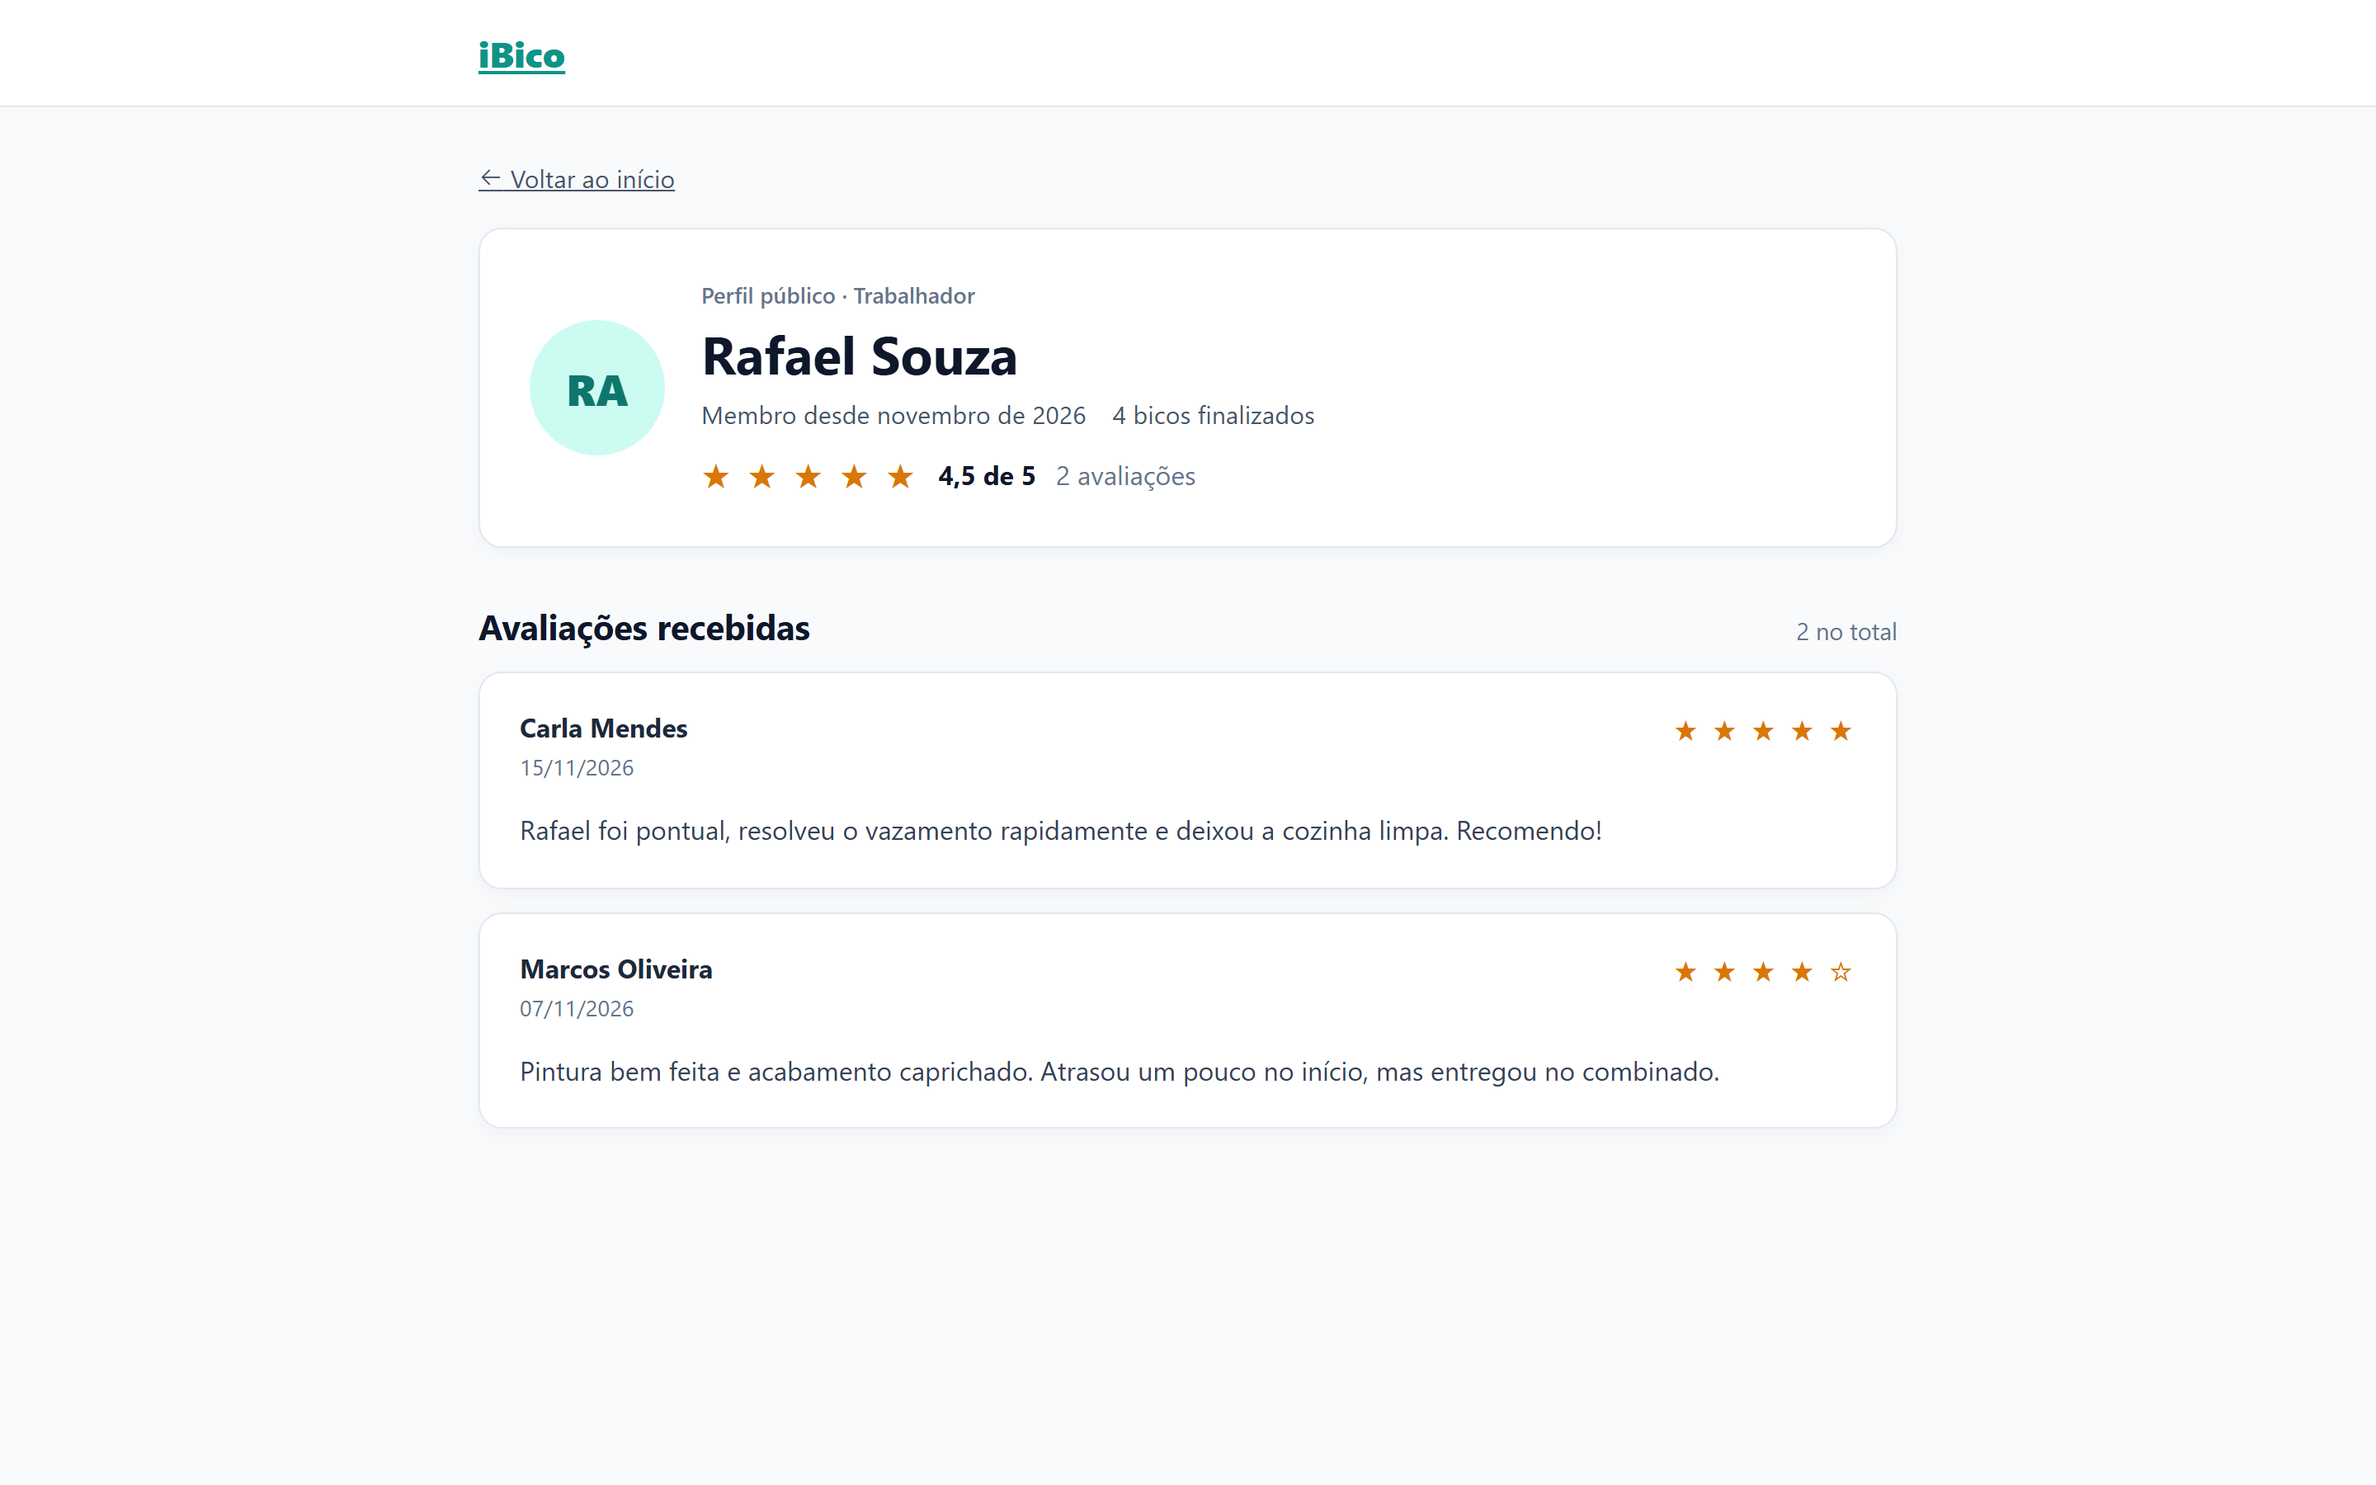
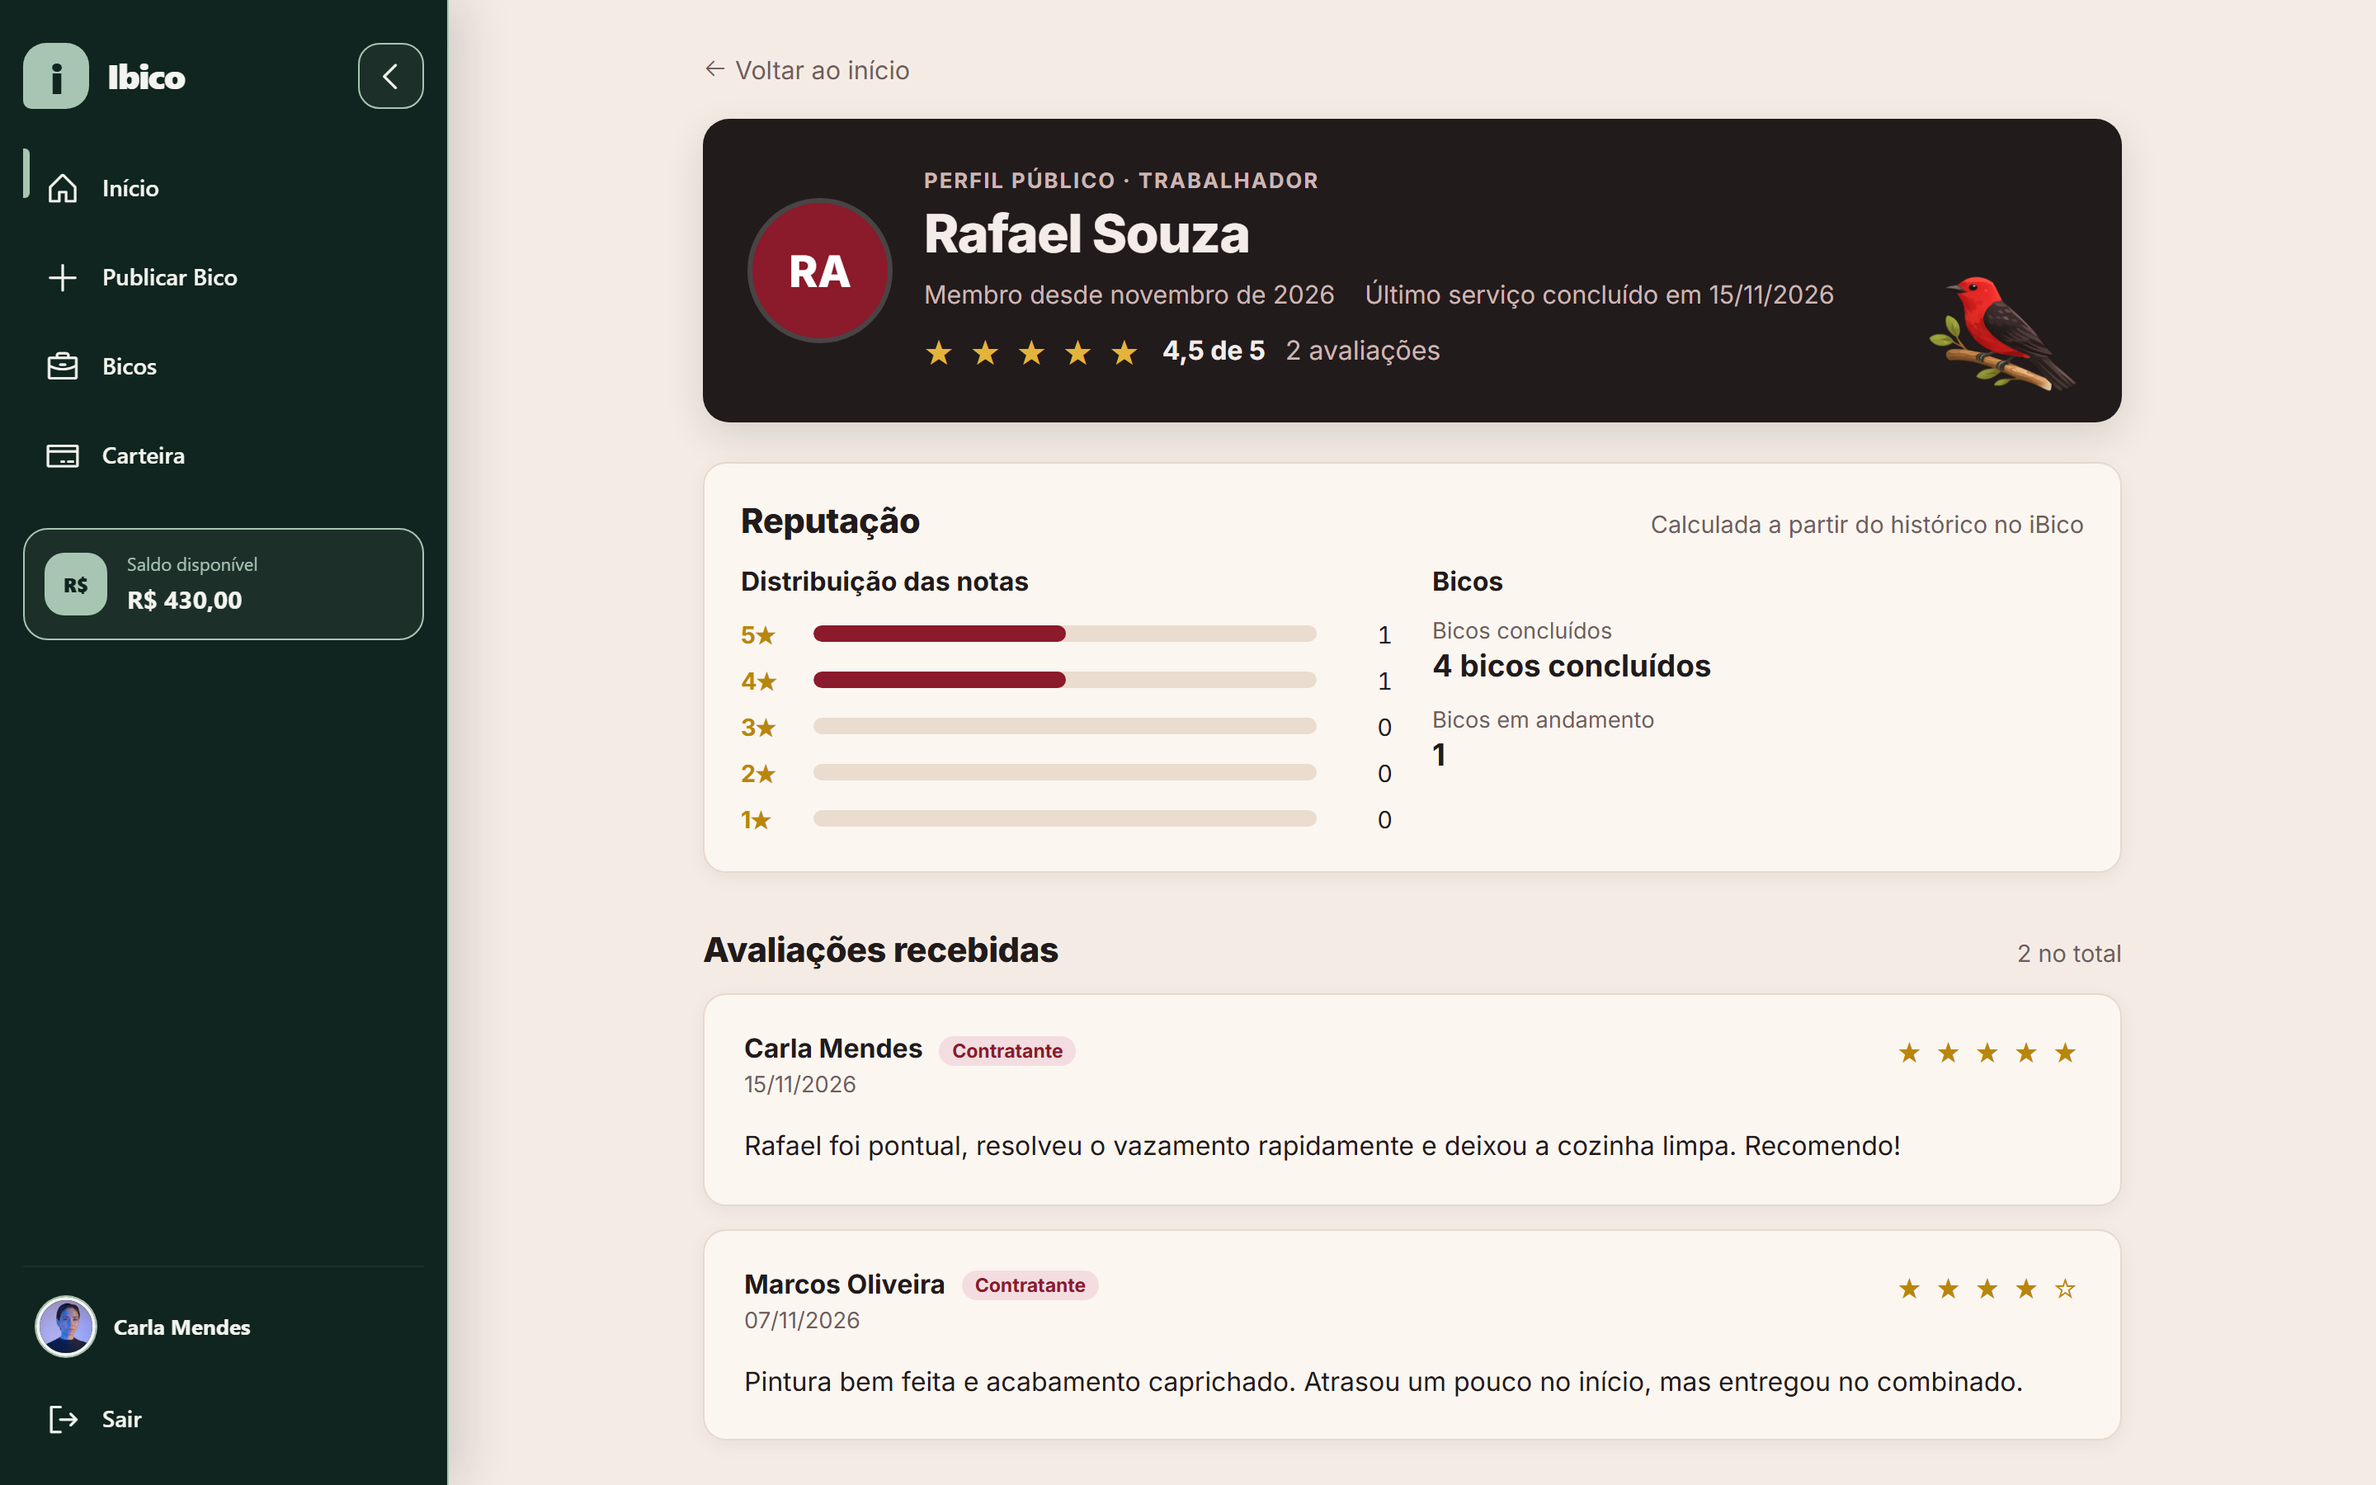
docs: CT23–CT24, prints com perfil de reputação e remoção do card fictício

diff --git a/scripts/prints-tcc.js b/scripts/prints-tcc.js
@@ -471,6 +471,11 @@ async function main() {
       }
     });
 
+    // Versão com reputação: o trabalhador (Diego) vê o bloco "Sobre o contratante" antes de se candidatar
+    // e o Rafael confere os números reais em "Meu Perfil".
+    await capturar({ arquivo: '20-sobre-o-contratante.png', usuario: 'diego', url: `/bicos/${ids.bicos.calcada}`, fullPage: true, esperarSeletor: '#sobre-contratante' });
+    await capturar({ arquivo: '21-perfil-privado-trabalhador.png', usuario: 'rafael', url: '/perfil', fullPage: true });
+
     console.log('\n> Resumo');
     console.log(JSON.stringify({ ids, resultados: resultados.map(({ arquivo, ok, erro, alturaConteudo }) => ({ arquivo, ok, erro, alturaConteudo })) }, null, 2));
   } finally {

diff --git a/tests/e2e/roteiro/perfil-reputacao.spec.js b/tests/e2e/roteiro/perfil-reputacao.spec.js
@@ -341,7 +341,7 @@ test.describe('Textos fictícios removidos', () => {
 
     const c = await criarConta(browser, 'contratante', 'txt_c');
     const publicar = await (await c.ctx.request.get(`${BASE}/bicos/novo`)).text();
-    expect(publicar).not.toMatch(/Pagamento garantido|Segurança Ibico|Verificado/);
+    expect(publicar).not.toMatch(/Pagamento garantido|Segurança Ibico|Verificado|Alcance Local|propostas por hora|propostas\/hora/);
     expect(publicar).toContain('O valor fica reservado na sua carteira simulada quando você aceita um candidato.');
     await c.ctx.close();
   });

diff --git a/public/css/publicarBico.css b/public/css/publicarBico.css
@@ -416,7 +416,7 @@ textarea {
 /* Rodapé cards */
 .info-grid {
   display: grid;
-  grid-template-columns: repeat(3, minmax(0, 1fr));
+  grid-template-columns: repeat(2, minmax(0, 1fr));
   gap: 20px;
   margin-top: 40px;
 }

diff --git a/Docs/Teste/casos-de-teste.md b/Docs/Teste/casos-de-teste.md
@@ -3,9 +3,9 @@
 Todos os valores financeiros são **simulados** (não existe pagamento real).
 
 **Execução de referência:** 17/11/2026, Firefox (Playwright) + `node --test`, banco local `db_bico` (MariaDB 10.11).
-- Testes unitários (`npm run test:unit`): 62 de 62 aprovados (15 de idade/cadastro/perfil + 17 do cancelamento de bico + 25 da avaliação + 5 do selo de avaliação), em `tests/unit/`.
-- Testes E2E (`npm test`): 77 de 77 aprovados, em `tests/e2e/` (inclui 5 da avaliação bidirecional, 7 do fluxo por cliques e 9 dos mascotes).
-- A suíte completa (`npm run test:unit` e `npm test`) foi executada em 17/11/2026 às 14:00, 14:01, 14:11, 15:37, 15:40, 16:00, 16:02, 17:56, 17:58, 18:07 e 18:20. A execução de referência é a de **18:20** (unitários 62/62 e E2E 77/77, esta última contra a porta 3001 porque a 3000 estava ocupada por outro servidor); a de 18:07 passou com 76/76 (antes do teste do selo "Prazo encerrado"). Em duas execuções intermediárias houve falhas já corrigidas: uma por ajuste pendente nos testes depois da remoção de e-mail e idade da lista de candidatos (mais dois travamentos gráficos do Firefox), outra por testes ainda procurando o balão antigo dos avisos de erro. O Playwright usa 2 workers.
+- Testes unitários (`npm run test:unit`): 78 de 78 aprovados (15 de idade/cadastro/perfil + 17 do cancelamento de bico + 25 da avaliação + 5 do selo de avaliação + 13 da reputação + 3 do "Membro recente"), em `tests/unit/`.
+- Testes E2E (`npm test`): 88 de 88 aprovados, em `tests/e2e/` (inclui 5 da avaliação bidirecional, 7 do fluxo por cliques, 9 dos mascotes e 11 da reputação e dos textos fictícios).
+- A suíte completa (`npm run test:unit` e `npm test`) foi executada em 17/11/2026 às 14:00, 14:01, 14:11, 15:37, 15:40, 16:00, 16:02, 17:56, 17:58, 18:07, 18:20, 19:08, 19:11 e 19:16. A execução de referência é a de **19:16** (unitários 78/78 e E2E 88/88); as de 19:11 e 19:16 passaram inteiras e a de 19:08 teve 87/88, com uma falha intermitente do Firefox (timeout no teste de idades do cadastro, que passou 3 de 3 ao repetir). Desde as 18:20 a suíte E2E roda contra a porta 3001, porque a 3000 fica ocupada por outro servidor. Em execuções intermediárias anteriores houve falhas já corrigidas (ajuste pendente nos testes depois da remoção de e-mail e idade da lista de candidatos, mais travamentos gráficos do Firefox, e testes ainda procurando o balão antigo dos avisos de erro). O Playwright usa 2 workers.
 - Cada teste cria as próprias contas e bicos (e-mails e títulos únicos) pelas rotas reais da aplicação e não depende de dados prévios. Os helpers ficam em `tests/e2e/support/cenario.js`. Só o CT10 consulta o banco (somente leitura), para conferir o evento de finalização, que nenhuma tela exibe.
 
 **Legenda de status**
@@ -35,6 +35,8 @@ Todos os valores financeiros são **simulados** (não existe pagamento real).
 | CT20 – Caminho até a avaliação | `roteiro/fluxo-por-cliques.spec.js` › "publicar → candidatar → aceitar → finalizar → avaliar (os dois lados), só clicando", "o histórico do trabalhador mostra o selo e abre a aba pela URL", "Ativos, Concluídos e Cancelados mostram os bicos certos" e "Selo "Prazo encerrado""; `tests/unit/selo-avaliacao.unit.js` | Aprovado |
 | CT21 – Saldo e alertas | `roteiro/fluxo-por-cliques.spec.js` › "Saldo do menu lateral" (adicionar, reservar, estornar), "Aceitar sem saldo: alerta estilizado" (2 testes); `roteiro/candidaturas.spec.js` › CT09 | Aprovado |
 | CT22 – Mascotes e movimento reduzido | `home/mascotes.spec.js` (9 testes: imagens, seletor de perfil na landing, login e cadastro, alertas, dica, movimento reduzido); alerta triste em `roteiro/fluxo-por-cliques.spec.js` | Aprovado |
+| CT23 – Reputação no perfil público | `roteiro/perfil-reputacao.spec.js` › "Perfil público: reputação" (5 testes), "Onde a decisão acontece" e "Identidade visual do perfil público"; `tests/unit/reputacao.unit.js` (13 testes); `tests/unit/perfil.unit.js` (3 testes) | Aprovado |
+| CT24 – Sem indicadores fictícios | `roteiro/perfil-reputacao.spec.js` › "Sem indicadores fictícios" (2 testes) e "Textos fictícios removidos" (2 testes); `tests/unit/perfil.unit.js` (Membro recente calculado) | Aprovado |
 
 ---
 
@@ -148,10 +150,20 @@ Todos os valores financeiros são **simulados** (não existe pagamento real).
 **Resultado esperado:** só existem dois mascotes: Contratar mostra somente a araponga e Trabalhar somente o tiê-sangue, trocando junto com o seletor; só a Visão geral da landing mostra as duas aves lado a lado; os alertas de erro (login, cadastro, publicar bico, saldo insuficiente) trazem o mascote do perfil, na pose triste; a dica do publicar bico usa a araponga e a do histórico usa o tiê; nenhuma página referencia o passarinho e o balão antigos; as 8 imagens em camadas respondem 200; com movimento reduzido nenhum elemento do mascote tem animação ativa e as aves ficam paradas e visíveis.
 **Status:** Aprovado. E2E em `home/mascotes.spec.js`: "as 8 imagens em camadas respondem 200 e as antigas não existem mais"; "nenhuma página referencia passarinho_transparente nem balao_transparente"; "landing: Contratar = só araponga, Trabalhar = só tiê, Visão geral = as duas"; "login: o erro mostra a ave do perfil escolhido e troca junto com o seletor"; "cadastro: …"; "publicar bico: dica com a araponga…"; "histórico do trabalhador: a dica usa o tiê-sangue…"; "com reducedMotion "reduce", nenhum elemento do mascote tem animação ativa"; e "na landing a ave pousa e, com o mouse em cima do cartão, bate asas". A pose triste do alerta de saldo está em `roteiro/fluxo-por-cliques.spec.js`. As animações em si (movimento e som) não são medidas pelos testes além das classes, do `animation-name` e da comemoração com botão de som: foram aprovadas visualmente com a demonstração em `Docs/mascotes/`.
 
+## CT23 – Reputação no perfil público
+**Procedimento:** (a) com um cenário de histórico conhecido (bicos concluídos, em andamento e cancelados, e notas recebidas), abrir `/perfil/publico/:id` de um trabalhador e de um contratante; (b) abrir o perfil de um usuário sem nenhuma avaliação e sem bicos; (c) como contratante, abrir a lista de candidatos de um bico; (d) como trabalhador, abrir os detalhes de um bico aberto, antes de se candidatar; (e) verificar o conteúdo dos perfis públicos quanto a dados pessoais.
+**Resultado esperado:** o perfil mostra nome, tipo, "membro desde" e a data do último serviço concluído (ou "Nenhum serviço concluído ainda"); a média (1 casa), a quantidade de avaliações e a distribuição das notas de 5★ a 1★; no trabalhador, bicos concluídos e em andamento (sem taxa de conclusão, pois só o contratante cancela); no contratante, bicos publicados, concluídos (todos pagos pela carteira simulada, valor simulado), cancelados depois do aceite (com estorno) e antes do aceite, e a taxa de conclusão = concluídos ÷ (concluídos + cancelados depois do aceite), ou "Sem histórico suficiente" quando não há bico nessas situações (por exemplo, só cancelados antes do aceite); as 5 avaliações mais recentes aparecem com nota, comentário, nome e perfil de quem avaliou e data, e "Ver todas (N)" expande as demais; usuário sem avaliações mostra "Ainda sem avaliações" e os demais números zerados normalmente; cada candidato mostra "N bicos concluídos"; os detalhes do bico mostram "Sobre o contratante" (média, bicos concluídos, cancelados depois de aceitar um trabalhador e link para o perfil), só para o trabalhador; o perfil público não traz e-mail, CPF, idade nem saldo; o tema visual acompanha o perfil exibido (verde-escuro/creme com a araponga para contratante; grafite/vinho/creme com o tiê-sangue para trabalhador), com o menu de quem está vendo.
+**Status:** Aprovado. E2E em `roteiro/perfil-reputacao.spec.js`: "trabalhador: média, distribuição, bicos concluídos e em andamento, último serviço e avaliações" (4,5 com 2 avaliações, 2 concluídos, 1 em andamento, barras 1/1/0/0/0); "contratante: publicados, concluídos (valor simulado), cancelados depois/antes do aceite e taxa de conclusão" (6 publicados, 2 concluídos, 1 e 1 cancelados, 67%); "o perfil público nunca mostra e-mail, CPF, idade ou saldo"; "usuário sem nenhum histórico…" (inclui o contratante só com cancelado antes do aceite); ""Ver todas": mostra as 5 avaliações mais recentes e expande o restante"; "candidatos mostram "N bicos concluídos"; detalhes do bico mostram "Sobre o contratante""; e "tema e mascote acompanham o perfil exibido". Unitários: `tests/unit/reputacao.unit.js` (taxa de conclusão, distribuição, média, caso sem histórico, contratante e trabalhador, e as consultas feitas sem N+1) e `tests/unit/perfil.unit.js` (cadastro recente).
+
+## CT24 – Sem indicadores fictícios
+**Procedimento:** percorrer as telas do sistema (landing, login, cadastro, publicar bico, painéis, carteiras, detalhes e gerenciamento de bico, histórico, perfis privados e públicos) procurando selos de verificação, taxa de resposta, indicador "Online", login social e números inventados.
+**Resultado esperado:** nenhuma tela mostra "Verificado", "validado" nem "Taxa de resposta"; o login não tem botões Google e LinkedIn; o cadastro não promete "milhares de profissionais" nem "mais confiável"; a tela de publicar bico não diz "Pagamento garantido" nem "Anúncio Verificado" nem "Média de 5 propostas/hora" e explica a reserva do valor na carteira simulada; os perfis privados não trazem a bolinha "Online"/"Conta ativa", a bio padrão nem itens fixos "Ativo", e mostram os números reais (bicos concluídos, avaliação média, membro desde, último serviço) com o link "Ver como os outros veem meu perfil"; "Membro recente" só aparece com cadastro de menos de 30 dias.
+**Status:** Aprovado. E2E em `roteiro/perfil-reputacao.spec.js`: "nenhuma tela mostra "Verificado", "validado" ou "Taxa de resposta"" (16 páginas), "perfil privado do trabalhador mostra os números reais e o link…", "login sem Google/LinkedIn; cadastro e publicar bico com textos fiéis ao sistema" (inclui "Alcance Local" e "propostas/hora") e "perfis privados: sem bolinha online, bio padrão nem lista "Ativo"; "Membro recente" só com menos de 30 dias". Unitários em `tests/unit/perfil.unit.js`: regra dos 30 dias.
+
 ---
 
 ## Observações
-- Todos os 22 casos têm teste automatizado aprovado. Os E2E antigos são, em sua maioria, de navegação e de interface; os do roteiro (CT02–CT22) conferem o resultado de cada operação.
+- Todos os 24 casos têm teste automatizado aprovado. Os E2E antigos são, em sua maioria, de navegação e de interface; os do roteiro (CT02–CT24) conferem o resultado de cada operação.
 - Os CT17 a CT19 exigem a tabela `avaliacoes` nova (schema atual ou `migrations/002_avaliacao_bidirecional.sql`).
 - O servidor precisa estar rodando em `http://localhost:3000` (`npm start`) com o banco ligado antes de `npm test`, e `NODE_ENV=development` (o cadastro dos testes usa CPFs fictícios de 1 a 9).
 - O E2E do cancelamento exige o banco com o tipo `ESTORNO` (schema atual ou `migrations/001_estorno.sql`).
